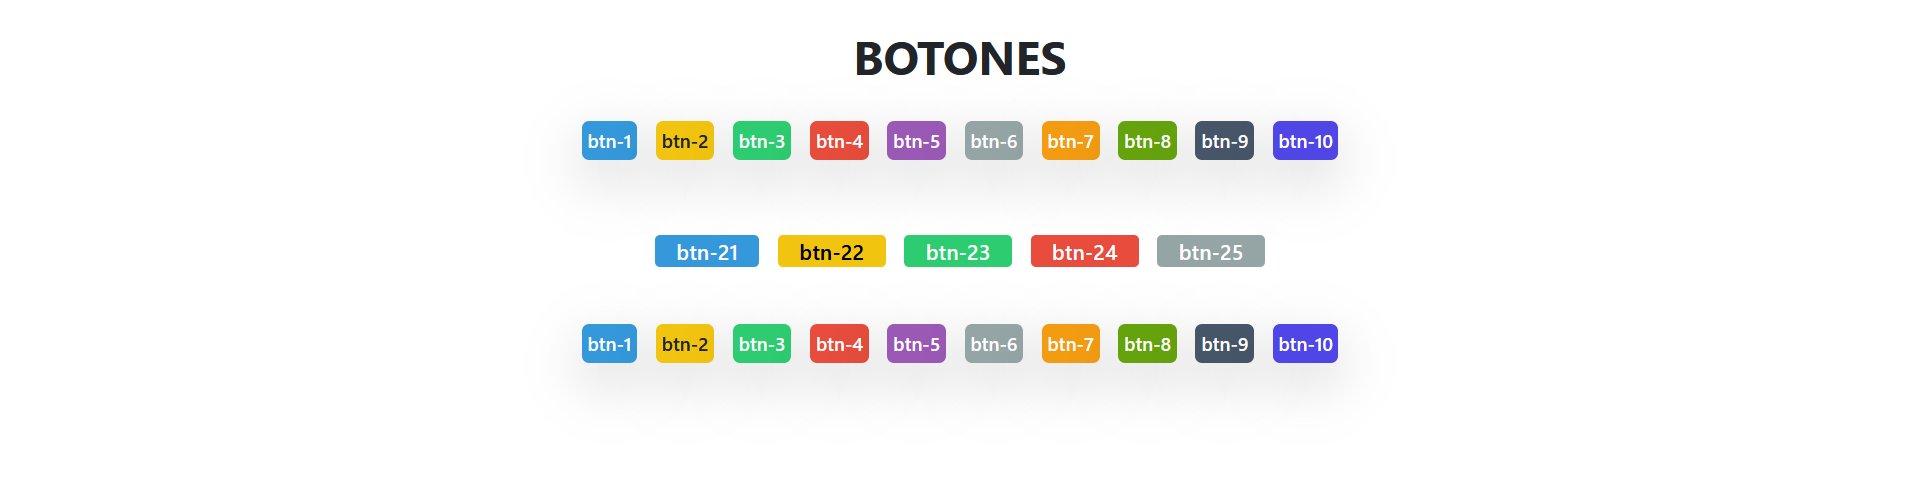
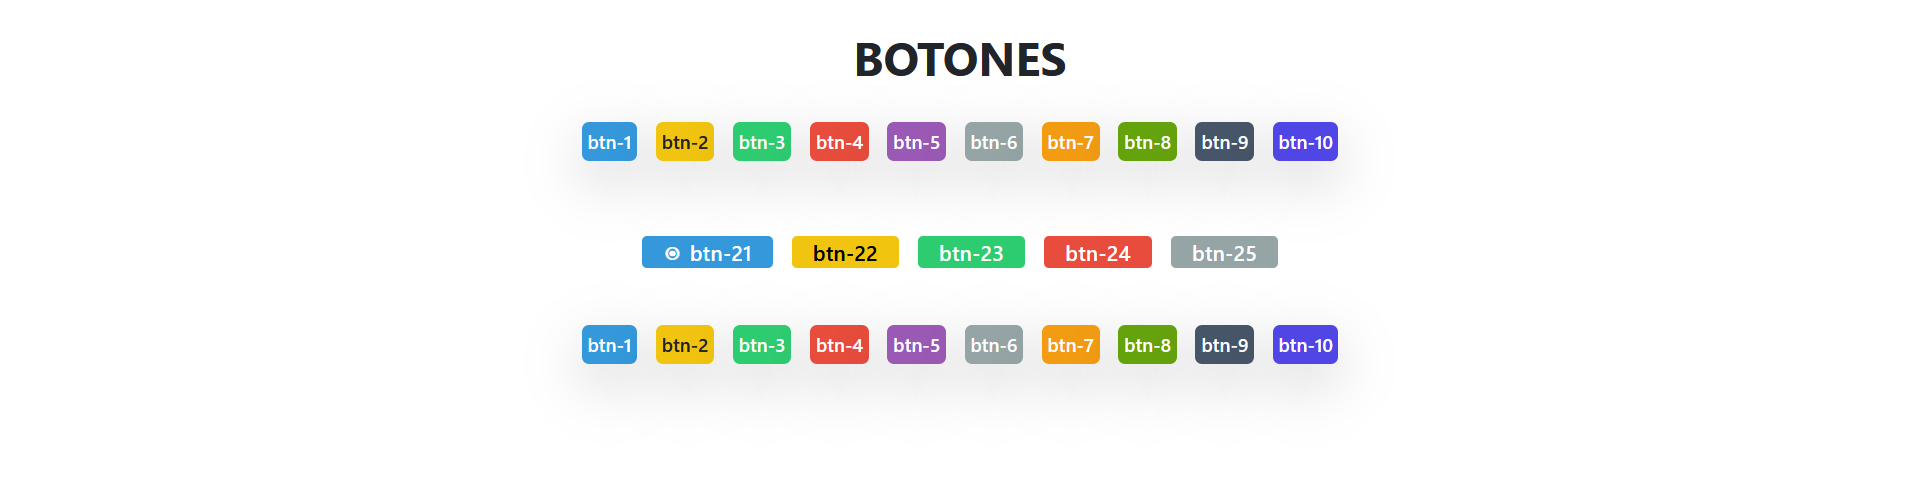
Botones Actualizacion

diff --git a/build/css/style.css b/build/css/style.css
@@ -4,146 +4,145 @@
  * Copyright 2011-2024 The Bootstrap Authors
  * Licensed under MIT (https://github.com/twbs/bootstrap/blob/main/LICENSE)
  */
-.btn-21{
-    display: inline-block;
-    border-radius: 4px;
-    background-color: #3498db;
-    border: none;
-    color: #FFFFFF;
-    text-align: center;
-    font-size: 17px;
-    transition: all 0.5s;
-    cursor: pointer;
-    padding: 0 1em 0 1em;
-    font-weight: 600;
+
+ .btn-21{
+  display: inline-block;
+  border-radius: 4px;
+  background-color: #3498db;
+  border: none;
+  color: #FFF;
+  text-align: center;
+  font-size: 17px;
+  transition: all 0.5s;
+  cursor: pointer;
+  padding: 0 1em 0 1em;
+  font-weight: 600;
 }
 .btn-21 span {
-    cursor: pointer;
-    display: inline-block;
-    position: relative;
-    transition: 0.5s;
+  cursor: pointer;
+  display: inline-block;
+  position: relative;
+  transition: 0.5s;
 }
-.btn-21 span:after {
-    content: '»';
-    position: absolute;
-    opacity: 0;
-    top: 0;
-    right: -15px;
-    transition: 0.5s;
+.btn-21 span::before {
+  content: '⦿';
+  position: absolute;
+  opacity: 0;
+  top: 0;
+  left: -15px;
+  transition: 0.2s;
+}
+.btn-21:hover span {
+  padding-left: 1.267em;
+} 
+.btn-21:hover span:before {
+  opacity: 1;
+  left: 0;
 }
 
-.btn-21:hover span {
-    padding-right: .8em;
-} 
-.btn-21:hover span:after {
-    opacity: 1;
-    right: 0;
-}
 .btn-22{
-    display: inline-block;
-    border-radius: 4px;
-    background-color: #f1c40f;
-    border: none;
-    color: #000;
-    text-align: center;
-    font-size: 17px;
-    transition: all 0.5s;
-    cursor: pointer;
-    padding: 0 1em 0 1em;
-    font-weight: 600;
+  display: inline-block;
+  border-radius: 4px;
+  background-color: #f1c40f;
+  border: none;
+  color: #000;
+  text-align: center;
+  font-size: 17px;
+  transition: all 0.5s;
+  cursor: pointer;
+  padding: 0 1em 0 1em;
+  font-weight: 600;
 }
 .btn-22 span {
-    cursor: pointer;
-    display: inline-block;
-    position: relative;
-    transition: 0.5s;
+  cursor: pointer;
+  display: inline-block;
+  position: relative;
+  transition: 0.5s;
 }
-.btn-22 span:after {
-    content: '»';
-    position: absolute;
-    opacity: 0;
-    top: 0;
-    right: -15px;
-    transition: 0.5s;
+.btn-22 span::before {
+  content: '⦿';
+  position: absolute;
+  opacity: 0;
+  top: 0;
+  left: -15px;
+  transition: 0.2s;
 }
-
 .btn-22:hover span {
-    padding-right: .8em;
+  padding-left: 1.267em;
 } 
-.btn-22:hover span:after {
-    opacity: 1;
-    right: 0;
+.btn-22:hover span:before {
+  opacity: 1;
+  left: 0;
 }
 
 .btn-23{
-    display: inline-block;
-    border-radius: 4px;
-    background-color: #2ecc71;
-    border: none;
-    color: #FFF;
-    text-align: center;
-    font-size: 17px;
-    transition: all 0.5s;
-    cursor: pointer;
-    padding: 0 1em 0 1em;
-    font-weight: 600;
+  display: inline-block;
+  border-radius: 4px;
+  background-color: #2ecc71;
+  border: none;
+  color: #FFF;
+  text-align: center;
+  font-size: 17px;
+  transition: all 0.5s;
+  cursor: pointer;
+  padding: 0 1em 0 1em;
+  font-weight: 600;
 }
 .btn-23 span {
-    cursor: pointer;
-    display: inline-block;
-    position: relative;
-    transition: 0.5s;
+  cursor: pointer;
+  display: inline-block;
+  position: relative;
+  transition: 0.5s;
 }
-.btn-23 span:after {
-    content: '»';
-    position: absolute;
-    opacity: 0;
-    top: 0;
-    right: -15px;
-    transition: 0.5s;
+.btn-23 span::before {
+  content: '⦿';
+  position: absolute;
+  opacity: 0;
+  top: 0;
+  left: -15px;
+  transition: 0.2s;
 }
-
 .btn-23:hover span {
-    padding-right: .8em;
+  padding-left: 1.267em;
 } 
-.btn-23:hover span:after {
-    opacity: 1;
-    right: 0;
+.btn-23:hover span:before {
+  opacity: 1;
+  left: 0;
 }
 
 .btn-24{
-    display: inline-block;
-    border-radius: 4px;
-    background-color: #e74c3c;
-    border: none;
-    color: #FFF;
-    text-align: center;
-    font-size: 17px;
-    transition: all 0.5s;
-    cursor: pointer;
-    padding: 0 1em 0 1em;
-    font-weight: 600;
+  display: inline-block;
+  border-radius: 4px;
+  background-color: #e74c3c;
+  border: none;
+  color: #FFF;
+  text-align: center;
+  font-size: 17px;
+  transition: all 0.5s;
+  cursor: pointer;
+  padding: 0 1em 0 1em;
+  font-weight: 600;
 }
 .btn-24 span {
-    cursor: pointer;
-    display: inline-block;
-    position: relative;
-    transition: 0.5s;
+  cursor: pointer;
+  display: inline-block;
+  position: relative;
+  transition: 0.5s;
 }
-.btn-24 span:after {
-    content: '»';
-    position: absolute;
-    opacity: 0;
-    top: 0;
-    right: -15px;
-    transition: 0.5s;
+.btn-24 span::before {
+  content: '⦿';
+  position: absolute;
+  opacity: 0;
+  top: 0;
+  left: -15px;
+  transition: 0.2s;
 }
 .btn-24:hover span {
-    padding-right: .8em;
+  padding-left: 1.267em;
 } 
-.btn-24:hover span:after {
-    opacity: 1;
-    right: 0;
+.btn-24:hover span:before {
+  opacity: 1;
+  left: 0;
 }
 
 .btn-25{
@@ -165,20 +164,20 @@
     position: relative;
     transition: 0.5s;
 }
-.btn-25 span:after {
-    content: '»';
+.btn-25 span::before {
+    content: '⦿';
     position: absolute;
     opacity: 0;
     top: 0;
-    right: -15px;
-    transition: 0.5s;
+    left: -15px;
+    transition: 0.2s;
 }
 .btn-25:hover span {
-    padding-right: .8em;
+    padding-left: 1.267em;
 } 
-.btn-25:hover span:after {
+.btn-25:hover span:before {
     opacity: 1;
-    right: 0;
+    left: 0;
 }
 :root,
 [data-bs-theme=light] {
